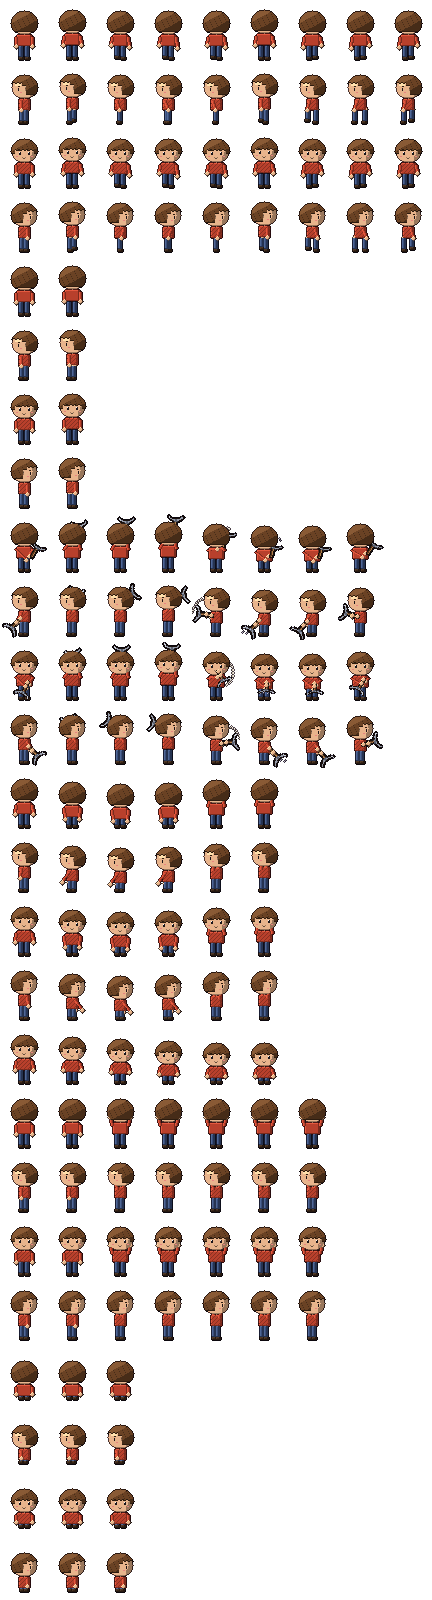
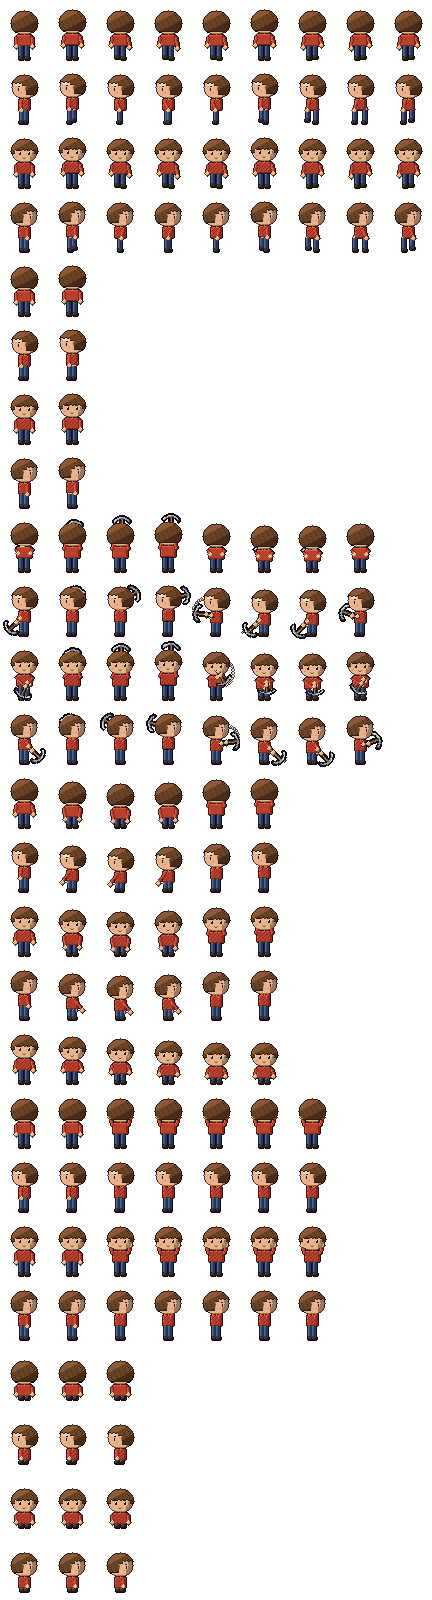
2D: facing away, the tool is drawn behind the body and swings forward out of sight (no tool resting on the back); arms reach forward; pickaxe head redrawn arcing toward the handle
Claude-Session: https://claude.ai/code/session_01P6pGQCq2oe4GSAnTdGYxNB

diff --git a/hollow-acre/2d/tools/px/chibi.js b/hollow-acre/2d/tools/px/chibi.js
@@ -31,6 +31,7 @@ function human(dir,pose){
   const arm=(sx,swing,up,hand)=>{let ex=sx+(up?swing*.4:swing*.3),ey=up?armY-9:armY+8+(pose.crouch?-2:0);if(hand){ex=sx+hand[0];ey=armY+hand[1];}limb(sx,armY,ex,ey,3,SHT);blob(Math.round(ex),Math.round(ey)+1,2,2,SK);};
   const back=dir==='N';
   // order: back arm, legs, torso, front arm, head
+  if(pose.tool&&dir==='N')pose.tool(hx,armY,dir,fl);   // facing away, the tool is in front of you: behind your body from where we stand
   if(side)arm(hx-fl*2,-(pose.swing||0)*fl,pose.up,pose.handB&&[pose.handB[0]*fl,pose.handB[1]]);
   drawLegs();
   // torso (with skirt / coat / overalls)
@@ -45,7 +46,7 @@ function human(dir,pose){
   if(!side){arm(tx-1,-(pose.swing||0),pose.up,pose.handL);arm(tx+tw,(pose.swing||0),pose.up,pose.handR);}
   else arm(hx+fl*3,(pose.swing||0)*fl,pose.up,pose.handF&&[pose.handF[0]*fl,pose.handF[1]]);
   pose.toolArgs=[hx,armY,dir,fl];
-  if(pose.tool&&(dir==='N'||pose.toolBack))pose.tool(hx,armY,dir,fl);
+  if(pose.tool&&dir!=='N'&&pose.toolBack)pose.tool(hx,armY,dir,fl);
   // head: soft-shaded skin, then face, then hair framing it
   const R=kid?11:12,RY=kid?10:11;
   for(let y=-RY;y<=RY;y++)for(let x=-R;x<=R;x++){const d=(x*x)/(R*R)+(y*y)/(RY*RY);if(d>1)continue;
@@ -120,7 +121,7 @@ const GRIP={axe:[[5,6],[-1,-10],[-3,-14],[-4,-15],[6,0],[7,4],[7,5],[4,1]],pick:
 const FGRIP=[[3,6],[2,-12],[1,-16],[1,-17],[2,-6],[2,3],[2,4],[3,2]];
 // seen from the front: raised overhead, then brought down toward you to the ground in front (foreshortened); from the back: over the shoulder and down into the distance
 const FANG_S=[115,-100,-92,-84,58,88,86,120],FK_S=[.9,1,1,1,.8,.62,.62,.85];
-const FANG_N=[-60,-95,-92,-86,-70,-76,-74,-55],FK_N=[.8,1,1,1,.9,.7,.7,.8];
+const FANG_N=[-80,-95,-92,-86,-84,-90,-90,-84],FK_N=[.55,1,1,1,.85,.5,.5,.7];
 const BACK=[0,1,1,1,0,0,0,0];   // side/front: tool behind the head while raised
 const TLEN={hoe:20,pick:18,axe:18};
 function gripOf(kind,f,front){return front?FGRIP[f]:GRIP[kind][f];}
@@ -130,7 +131,7 @@ function toolFor(kind,f,dir){if(!kind)return null;return (hx,ay,dir,fl)=>{const 
     let gx=hx+(front?gdx:fl*gdx),gy=ay+gdy;let ang,mir=false,k=1;
     if(side){const a=SWING[kind][f];if(fl>0)ang=a;else{ang=180-a;mir=true;}}
     else if(!back){ang=FANG_S[f];k=FK_S[f];}
-    else{ang=FANG_N[f];k=FK_N[f];gx+=5;}
+    else{ang=FANG_N[f];k=FK_N[f];gx+=BACK[f]?1:-4;}
     const rad=ang*Math.PI/180,dx=Math.cos(rad),dy=Math.sin(rad);
     // a clean swing trail on the fast frame, kept clear of the face
     if(f===4){const a0=(side?(fl>0?SWING[kind][3]:180-SWING[kind][3]):back?FANG_N[3]:FANG_S[3])*Math.PI/180;let a1=rad;if(side&&fl<0&&a1>a0)a1-=2*Math.PI;if(side&&fl>0&&a1<a0)a1+=2*Math.PI;
@@ -159,6 +160,7 @@ ROWS.forEach(([clip,dir,nf],r)=>{for(let f=0;f<nf;f++){
     else if(CFG.tool){const kind=CFG.tool;pose.crouch=[0,0,0,0,1,3,3,1][f];pose.bob=f===3?-1:0;pose.toolBack=!!BACK[f];
       const [gx,gy]=gripOf(kind,f,!side);const a=SWING[kind][f]*Math.PI/180;
       if(side){pose.handF=[gx-3+Math.round(Math.cos(a)*4),gy+Math.round(Math.sin(a)*4)];pose.handB=[gx+2-1,gy+1];}
+      else if(dir==='N'){if(BACK[f]){pose.handL=[3,-12];pose.handR=[-3,-12];}else{pose.handL=[2,3];pose.handR=[-2,3];}}
       else{const tx=-(15>>1);pose.handL=[gx-(tx-1)-1,gy+(BACK[f]?0:4)];pose.handR=[gx-(tx+15)+2,gy];}}}
   if(clip==='slash'){ // pick: crouch, reach down, grab, stand and lift the crop overhead
     const cr=[0,3,5,4,1,0][f];pose.crouch=cr;const reach=f>=1&&f<=3;const lift=f>=4;

diff --git a/hollow-acre/2d/tools/px/lib.js b/hollow-acre/2d/tools/px/lib.js
@@ -66,8 +66,7 @@ function hipify(L,rx0,rx1,y0,eaveY,hw,RF,keep){const inset=y=>Math.round(hw*(1-(
 const TOOLART={
  axe:{px:5,art:["....KKK.......","...KDLK.KKK...","...KDLKKmllK..","...KDLKmmmleK.","...KDLKmmmmleK","..KsDLsmmmmmeK","..KsbbsmmmmmeK","..KsDLsmmmmmeK","...KDLKmmmmleK","...KDLKmmmleK.","...KDLKKmllK..","...KDLK.KKK...",
    "...KDLK.......","...KDMK.......","...KDLK.......","...KDLK.......","...KDMK.......","...KDLK.......","...KDLK.......","...KDMK.......","...KDLK.......","...KDLK.......","...KKKK......."]},
- pick:{px:8,art:[".K.............K.","KlK...........KmK","KllKK.......KKmmK",".KlmmKKKKKKKmmmK.","..KKmmmmbbmmmKK..","....KKsmbbmsKK...","......KsbbsK.....",
-   "......KDLK.......","......KDLK.......","......KDMK.......","......KDLK.......","......KDLK.......","......KDMK.......","......KDLK.......","......KDLK.......","......KDMK.......","......KDLK.......","......KDLK.......","......KDLK.......","......KKKK......."]},
+ pick:{px:9,art:["......KKKKKK......","....KKllmmmmKK....","..KKllmmbbmmmmKK..",".KllmmKKbbKKmmmsK.","KllmK..KDLK..KmmsK","KlmK...KDLK...KmsK","KlK....KDLK....KsK",".K.....KDLK.....K.",".......KDMK.......",".......KDLK.......",".......KDLK.......",".......KDMK.......",".......KDLK.......",".......KDLK.......",".......KDMK.......",".......KDLK.......",".......KDLK.......",".......KDMK.......",".......KDLK.......",".......KDLK.......",".......KKKK......."]},
  hoe:{px:5,art:["....KK.......","...KDLKKKKKK.","...KDLKmmmllK","...KsbbmmmmlK","...KDLKKKmmeK","...KDLK..KmeK","...KDLK...KeK","...KDLK....K.","...KDMK.....","...KDLK.....","...KDLK.....","...KDMK.....","...KDLK.....","...KDLK.....",
    "...KDMK.....","...KDLK.....","...KDLK.....","...KDMK.....","...KDLK.....","...KDLK.....","...KDLK.....","...KDLK.....","...KDLK.....","...KKKK....."]}};
 const TOOLPAL={K:[26,16,12],D:[84,52,28],M:[124,82,46],L:[176,126,76],s:[60,64,76],b:[92,98,112],m:[150,156,170],l:[204,210,222],e:[244,248,252]};
